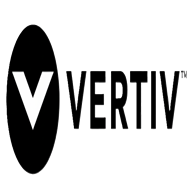
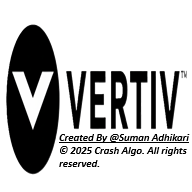
Change Commit

Changed region(s): [[0.2812, 0.6875, 1.0, 0.875]]

diff --git a/src/config/AutoLogout.js b/src/config/AutoLogout.js
@@ -1,0 +1,112 @@
+// src/components/AutoLogout.js
+import { useEffect, useRef } from "react";
+import { useNavigate } from "react-router-dom";
+import { signOut } from "firebase/auth";
+import { auth } from "../firebase";
+
+export default function AutoLogout({ timeoutMs = 12 * 60 * 60 * 1000 }) {
+  const navigate = useNavigate();
+  const intervalRef = useRef(null);
+
+  useEffect(() => {
+    const TWO_HOURS = timeoutMs;
+    const ACTIVITY_EVENTS = ["mousemove", "keydown", "click", "touchstart"];
+
+    // update activity: refresh lastActivity and expiry
+    const updateActivity = () => {
+      const now = Date.now();
+      localStorage.setItem("lastActivity", String(now));
+      localStorage.setItem("expiry", String(now + TWO_HOURS));
+      console.clear();
+      console.log("🔄 Activity detected — reset 2-hour timer.");
+    };
+
+    // Convert milliseconds to readable h:m:s
+    const formatTimeLeft = (ms) => {
+      const totalSeconds = Math.max(0, Math.floor(ms / 1000));
+      const hours = Math.floor(totalSeconds / 3600);
+      const minutes = Math.floor((totalSeconds % 3600) / 60);
+      const seconds = totalSeconds % 60;
+      return `${hours}h ${minutes}m ${seconds}s`;
+    };
+
+    // check expiry and force logout if expired
+    const checkExpiry = async () => {
+      try {
+        const expiryStr = localStorage.getItem("expiry");
+        const userData = localStorage.getItem("userData");
+        if (!userData) {
+          // no logged in user, nothing to do
+          return;
+        }
+        if (!expiryStr) {
+          // no expiry set (maybe previous login didn't set it) -> set fresh expiry
+          updateActivity();
+          return;
+        }
+
+        const expiry = Number(expiryStr);
+        const now = Date.now();
+        const timeLeft = expiry - now;
+        if (isNaN(expiry)) {
+          updateActivity();
+          return;
+        }
+
+        // Countdown console
+        console.clear();
+        console.log(
+          "⏳ Auto logout in:",
+          formatTimeLeft(timeLeft),
+          "| Current time:",
+          new Date().toLocaleTimeString()
+        );
+
+        if (timeLeft <= 0) {
+          console.log("🚪 Session expired — logging out...");
+          try {
+            await signOut(auth);
+          } catch (e) {
+            console.warn("signOut error (ignored):", e);
+          }
+          localStorage.removeItem("userData");
+          localStorage.removeItem("lastActivity");
+          localStorage.removeItem("expiry");
+          localStorage.removeItem("userData");
+          localStorage.removeItem("summary");
+          localStorage.removeItem("dailyLogs");
+          localStorage.removeItem("incidents");
+          localStorage.removeItem("incidentSummary");
+          localStorage.removeItem("incidentTextSummary");
+          localStorage.removeItem("assets");
+          localStorage.removeItem("pmData");
+          localStorage.removeItem("thermalReports");
+          localStorage.removeItem("lastFilling")
+          // Redirect to login
+          navigate("/login", { replace: true });
+          // Optionally show an alert
+          try {
+            // guard: window may not be available in some test env
+            window.alert("You were logged out after 12 hours of inactivity.");
+          } catch (e) { }
+        }
+      } catch (err) {
+        console.error("AutoLogout check error:", err);
+      }
+    };
+
+    // attach activity listeners
+    ACTIVITY_EVENTS.forEach((ev) => window.addEventListener(ev, updateActivity));
+
+    // initial check + set interval
+    if (!localStorage.getItem("expiry")) updateActivity();
+    intervalRef.current = setInterval(checkExpiry, 1000); // every 30s
+
+    return () => {
+      ACTIVITY_EVENTS.forEach((ev) => window.removeEventListener(ev, updateActivity));
+      if (intervalRef.current) clearInterval(intervalRef.current);
+    };
+  }, [navigate, timeoutMs]);
+
+  return null; // renders nothing; mount once in App
+}

diff --git a/src/App.js b/src/App.js
@@ -39,6 +39,8 @@ import CCMSCopy from "./pages/CCMSCopy";
 import RackTrackerForm from "./pages/RackTrackerForm";
 import SiteConfigEditor from "./pages/SiteConfigEditor";
 import MonthlyData from "./pages/MonthlyData";
+import AutoLogout from "./config/AutoLogout";
+
 
 function App() {
   const [userData, setUserData] = useState(null);
@@ -62,6 +64,7 @@ function App() {
 
   return (
     <Router>
+      <AutoLogout timeoutMs={2 * 60 * 60 * 1000} />
       <Routes>
         {/* Public Routes */}
         <Route path="/login" element={<Login setUserData={setUserData} />} />
@@ -334,6 +337,8 @@ function App() {
         {/* Fallback */}
         <Route path="/" element={<Navigate to="/daily-dg-log-editor" />} />
         <Route path="*" element={<Navigate to="/daily-dg-log-editor" />} />
+
+        {/* {DashboardWrapper()} */}
       </Routes>
     </Router>
   );

diff --git a/src/pages/DailyDGLog.js b/src/pages/DailyDGLog.js
@@ -2015,7 +2015,7 @@ const DailyDGLog = ({ userData }) => {
                   <td>{fmt(calculated["PUE"])}</td>
 
                   {/* 🔹 Actions */}
-                  {(userData?.role === "Super Admin" || userData?.role === "Admin") && (
+                  {(userData?.role === "Super Admin" || userData?.role === "Admin" || userData?.designation === "Vertiv Site Infra Engineer" || userData?.designation === "Vertiv Supervisor" ) && (
                     <td>
                       {calculated["Total Fuel Filling"] > 0 && (
                         <button

diff --git a/src/components/Layout.js b/src/components/Layout.js
@@ -3,7 +3,7 @@ import React, { useState, useEffect } from "react";
 import { useNavigate } from "react-router-dom";
 import Sidebar from "./Sidebar";
 import "../assets/Layout.css";
-import Vertiv from "../assets/vertiv.png";
+import Vertiv from "../assets/Vertiv1.png";
 import { FaArrowLeft } from "react-icons/fa"; // Using react-icons for the arrow
 
 const Layout = ({ userData, children }) => {
